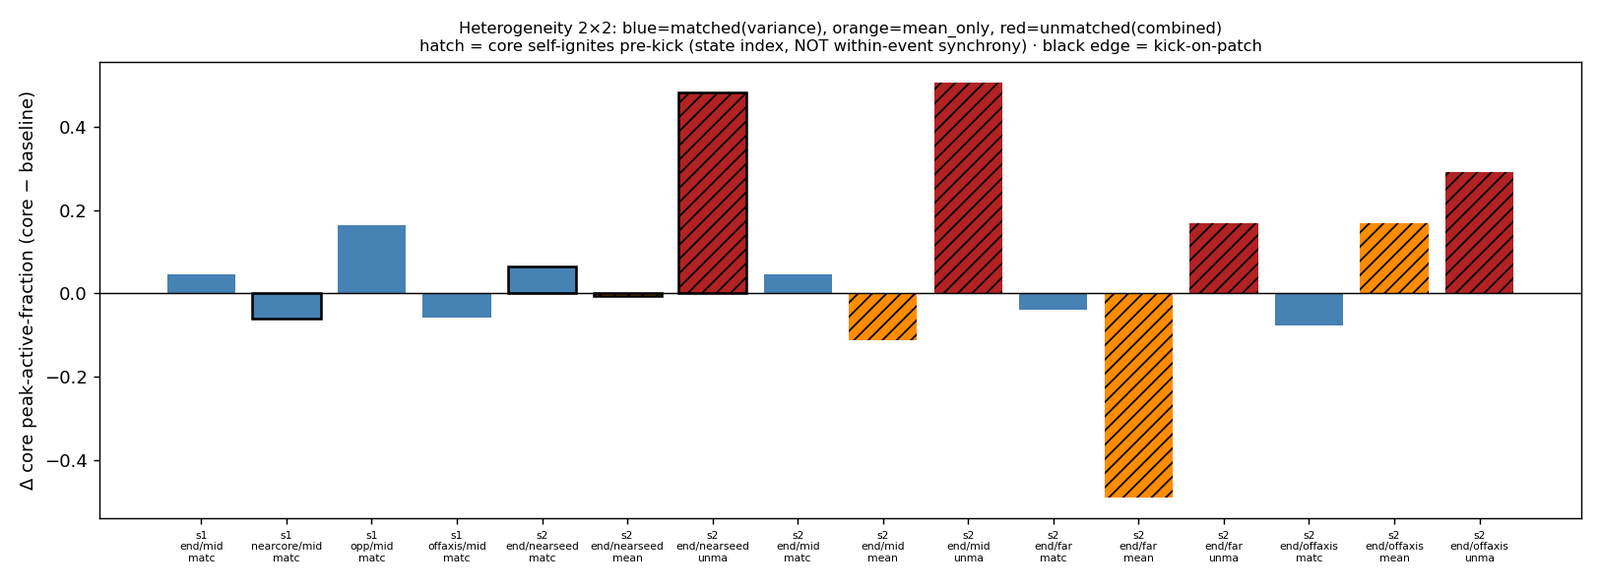
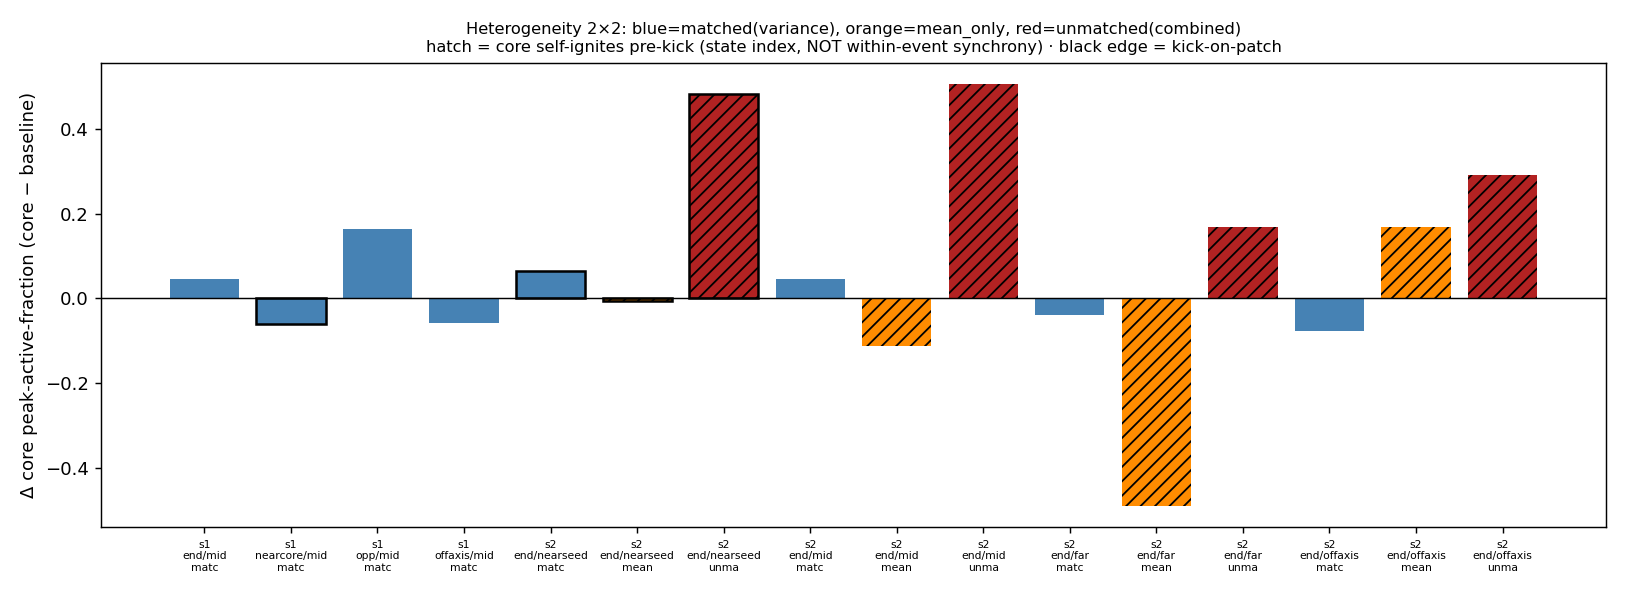
feat(topic4 snn-hetero): mechanism figure per parameter combination (kick × core × cond)
User request: emit one 4-panel mechanism figure (heterogeneity map | propagation |
∥/⊥ electrode read-out) for EVERY parameter combination, not just the mid
representatives. The grid already saved per-cell data for all combinations, so this
is a plotting change — no re-run.

- plot_sef_hfo_snn_hetero_mechanism.py: iterate ALL grid cells (15 unique
  combinations) with tag {kick}kick_{core}core_{cond}. Coverage (honest): the grid
  is two orthogonal 1-D sweeps — 4 kick positions (end/nearcore/opp/offaxis at mid
  core, matched) + 4 core positions (nearseed/mid/far/offaxis at end kick × 3 conds).
  A full kick×core×cond factorial (48) would need a grid re-run (not done).
- Self-ignition banner on the title for mean_only/unmatched cells ("⚠ SELF-IGNITES
  pre-kick — b/c/d propagation ILLUSTRATIVE ONLY", §2 downgrade discipline) vs
  "(evoked event)" for matched.
- sef_hfo_plot.mechanism_4panel: dpi 300→150 and drop the redundant PDF — keeps each
  ~16k-neuron figure ~1.6MB (was ~4MB); 15 committed, footprint matters. Does NOT
  touch two_electrode_readout (its own savefig).
- README documents the naming scheme + coverage caveat + banner.

Replaces the 3 mid_* representative figures. 1 plot test passes.

diff --git a/scripts/plot_sef_hfo_snn_hetero_mechanism.py b/scripts/plot_sef_hfo_snn_hetero_mechanism.py
@@ -68,7 +68,9 @@ def _load(cell):
 
 def _mechanism_figure(cell, tag):
     """One 4-panel figure: a=heterogeneity map | b=onset/propagation map |
-    c=∥ read-out | d=⊥ read-out (c/d shared, not duplicated)."""
+    c=∥ read-out | d=⊥ read-out (c/d shared, not duplicated). Self-igniting cells
+    get a banner — their post-kick propagation (panels b/c/d) is illustrative only
+    (§2 downgrade discipline), not an evoked-propagation conclusion."""
     z, L, theta, t, win, par, perp = _load(cell)
     posE = z["posE"]; vth = z["vth"]; NE = len(posE)
     spread = local_vth_spread(posE, vth[:NE], np.ones(NE, bool), 0.3)
@@ -77,6 +79,8 @@ def _mechanism_figure(cell, tag):
     # clip onset colour to 5–95th pct so late-firing outliers don't blow out the gradient
     vlim = ((float(np.nanpercentile(onset_rel[fin], 5)), float(np.nanpercentile(onset_rel[fin], 95)))
             if fin.sum() > 5 else None)
+    ig = bool(cell.get("core_prekick_ignited", False))
+    igmark = "   ⚠ SELF-IGNITES pre-kick — b/c/d propagation ILLUSTRATIVE ONLY" if ig else "   (evoked event)"
     mechanism_4panel(
         str(FIG / f"mechanism_{tag}.png"),
         field_xy=posE, kick_xy=z["kick"], axis_deg=theta, extent=(0, L, 0, L),
@@ -91,7 +95,8 @@ def _mechanism_figure(cell, tag):
                      "(NOT LFP); dashed = pathology core; b-contacts coloured by arrival time; "
                      "a heterogeneity boundary ring on mean-shifted cores = mean jump, see core interior",
         patch_circle=(float(z["patch"][0]), float(z["patch"][1]), float(z["patch_r"])),
-        title=f"Pathology core ({cell['cond']}) — heterogeneity + propagation + electrode read-out ({tag})")
+        title=f"core={cell['pname']}  kick={cell['kname']}  ({cell['cond']}) — "
+              f"heterogeneity + propagation + electrode read-out{igmark}")
 
 
 def _overview(cells):
@@ -161,15 +166,19 @@ def main():
                 old.unlink()
     cells = json.loads((OUT / "grid_metrics.json").read_text())["cells"]
     _overview(cells)
-    reps = _pick_representatives(cells)
-    for tag, c in reps.items():
+    # one mechanism figure per parameter combination (kick × core × cond) — the grid
+    # spans 4 kicks (at mid core, matched) + 4 cores (at end kick × 3 conds).
+    tags = {}
+    for c in cells:
+        tag = f"{c['kname']}kick_{c['pname']}core_{c['cond']}"
         _mechanism_figure(c, tag)
-    _baseline_compare(reps)
+        tags[tag] = c["idx"]
+    _baseline_compare(_pick_representatives(cells))
     (OUT / "cohort_summary.json").write_text(json.dumps(
-        {"representatives": {k: v["idx"] for k, v in reps.items()}, "n_cells": len(cells)},
-        indent=2))
-    print("representatives:", {k: v["idx"] for k, v in reps.items()})
-    print("figures:", sorted(p.name for p in FIG.glob("*.png")))
+        {"mechanism_figures": tags, "n_cells": len(cells)}, indent=2))
+    print(f"wrote {len(tags)} mechanism figures:")
+    for tag in sorted(tags):
+        print("  mechanism_" + tag + ".png")
 
 
 if __name__ == "__main__":

diff --git a/src/sef_hfo_plot.py b/src/sef_hfo_plot.py
@@ -318,8 +318,10 @@ def mechanism_4panel(
              fontsize=FS_TICK - 4, color="0.35")
     if title:
         fig.suptitle(title, fontsize=FS_TITLE, y=0.99)
-    fig.savefig(out_path, dpi=300, facecolor="white")
-    fig.savefig(out_path.replace(".png", ".pdf"), facecolor="white")
+    # dpi 150 keeps each ~16k-neuron 4-panel inspection figure ~1MB (vs ~4MB at 300);
+    # one per (kick×core×cond) combination is committed, so the footprint matters. No
+    # PDF (the vector copy of a 16k-point scatter is large and was never committed).
+    fig.savefig(out_path, dpi=150, facecolor="white")
     plt.close(fig)
     print(f"  Saved {out_path}")
     return out_path

diff --git a/results/topic4_sef_hfo/snn_heterogeneity/figures/README.md b/results/topic4_sef_hfo/snn_heterogeneity/figures/README.md
@@ -8,15 +8,17 @@
 ### baseline_compare.png
 四个代表的整体网络状态（**源空间群体率**，竖虚线 = 戳 @150ms）：matched 与基线几乎重合、单个干净**诱发**事件（戳后 ~185ms）；mean_only / unmatched 在**戳之前** ~55–80ms 就有早峰 = **自点火灶**（标题标 IGNITES pre-kick）。直接展示"mean-down 核戳前自己烧起来"。
 
-### mechanism_<tag>.png（4 联图：异质性 + 传播 + 电极读出，复用参考图画法）
+### mechanism_<tag>.png（4 联图：异质性 + 传播 + 电极读出，**每个参数组合一张**，2026-06-09 扩成全组合）
 一张图 4 个面板，c/d 共用（不重复）：
 - **a 异质性地图**（plasma colorbar）：神经元面按**邻域门槛离散度**上色 + 病理核虚线 + 电极 + 戳点 + 长轴箭头。展示"引入的异质性是什么、核在哪、多大"。**注意**：mean-shifted 核（mean_only/unmatched）边界有一圈高离散度，是核内外**平均门槛跳变**（16 vs 18）的伪环，看**核内部**。
 - **b 传播地图**（viridis，5–95 分位裁色）：神经元面按**事件起始时刻**上色 + **电极触点按到达时刻上色**（传播顺序在电极上也可见）。
 - **c ∥ 杆读出**：per-contact 峰值依次扫（**斜的峰轨迹 = 读出方向**）。
 - **d ⊥ 杆读出**：峰值对齐（竖直 = 无方向）。
-tag = mid_matched（最干净诱发波）/ mid_mean_only / mid_unmatched（后两者 onset 图被戳前自点火复杂化）。
 
-**关注点**：a 看异质性在哪、b 看传播顺序、c 峰轨迹斜率 = 方向、d 对齐 = 无方向；a 边界环是均值跳变伪迹（看核内）。
+**命名 = `{kick位置}kick_{核位置}core_{条件}`**，每个网格参数组合一张（共 **15 个唯一组合**，来自 grid_metrics.json 全部 cell）。**覆盖范围（诚实）**：grid 是**两条正交 1-D 扫**，不是全因子——① **kick 位置扫**（end/nearcore/opp/offaxis 4 个 kick，**固定 mid 核 + matched**）；② **核位置扫**（nearseed/mid/far/offaxis 4 个核，**固定 end kick × 3 条件 matched/mean_only/unmatched**）。所以"不同 kick"只在 mid/matched 下有、"不同核"只在 end kick 下有；**完整的 kick×核×条件全因子（4×4×3=48）需重跑 grid**（未做）。
+- 标题带 **⚠ SELF-IGNITES pre-kick — b/c/d propagation ILLUSTRATIVE ONLY**（mean_only/unmatched 自点火格子，传播面板只作图示、不进结论，§2 降级纪律）或 **(evoked event)**（matched 干净诱发）。
+
+**关注点**：a 看异质性在哪、b 看传播顺序、c 峰轨迹斜率 = 方向、d 对齐 = 无方向；a 边界环是均值跳变伪迹（看核内）；带 ⚠ 的传播面板别当结论。
 
 ### sweep_ignition.png（多种子+位置 sweep：点火概率，2026-06-09）
 7 个核位置（沿轴 far→near + 离轴）× 12 种子，三条线 = 三种病理改法的"戳前自点火比例"。**蓝（纯方差）贴 0（0/84，从不点着）；橙（压低平均+宽参差）贴 1（84/84 全点着）；红（压低平均+窄参差）大多 1、偶尔掉到 0.83（77/84）**。一眼看：**平均下移是点火主门；宽参差的低门槛尾巴帮点火（84/84），收窄略降（77/84）**——参差调"可靠性"、不是主开关。**修正早先"参差零作用"的过硬说法。**